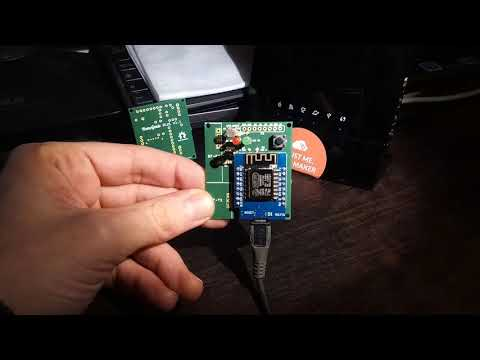
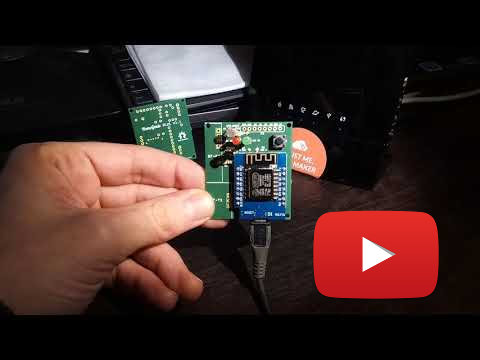
update README.md file

Changed region(s): [[0.625, 0.5806, 0.9375, 0.8556]]

diff --git a/README.md b/README.md
@@ -5,7 +5,10 @@
 HomeGenie mini *(code name **Sbirulino**)* is an open hardware + firmware solution for building smart devices
 based on the popular *ESP8266 chip*, a WiFi capable micro controller.
 
+<p align="center">
 [![HomeGenie Mini Quick Setup Video](https://raw.githubusercontent.com/genielabs/homegenie-mini/master/pcb/images/video_cover.jpg)](https://youtu.be/CovB1jl3980)
+</p>
+<small>(click the picture above to watch the video)</small>
 
 **Hardware features**
 
